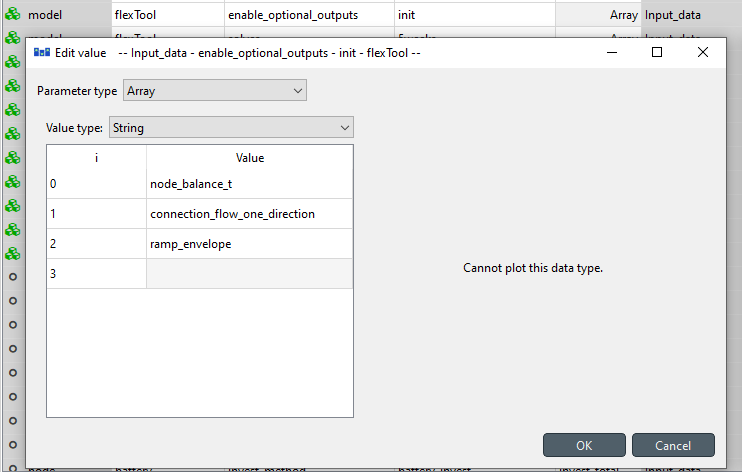
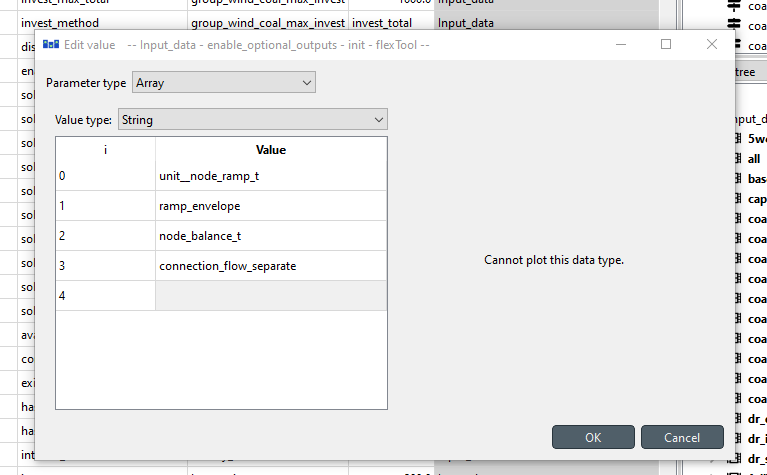
unit__node_ramp_t to enable_outputs without db

diff --git a/docs/reference.md b/docs/reference.md
@@ -44,7 +44,7 @@ Timeblocks pick one or more sections from the `timeline` to form a `timeblockset
   - *solves*: sequence of solves in the model represented with an array of solve names.
   - *discount_offset_investment*: [years] Offset from the period (often year) start to the first payment of the investment cost annuity.
   - *discount_offset_operations*: [years] Offset from the period (often year) start to the payment of operational costs.
-  - *enable_optional_outputs*: [Array], Produces additional outputs. Allowed outputs: "ramp_envelope","node_balance_t","connection_flow_separate" 
+  - *enable_optional_outputs*: [Array], Produces additional outputs. Allowed outputs: "ramp_envelope","unit__node_ramp_t","node_balance_t","connection_flow_separate" 
   - *disable_optional_outputs*: [Array], Disable some of the default outputs to reduce the time used. Allowed outputs to be disabled: "unit__node_flow_t","connection__node__node_flow_t"
   
 - `solve`: each solve is built from an array of periods (e.g. one period for 2025 and another for 2030). Periods use timeblocksets to connect with a timeline.

diff --git a/docs/how_to.md b/docs/how_to.md
@@ -833,6 +833,7 @@ With these parameters, the command line call is:
 Some outputs need to be explicitly added in order to output them. This is to reduce the result processing time. Each optional output can be added to the `enable_optional_outputs` parameter array of the `model` object. The additional outputs are:
 
 - *ramp_envelope* : Includes seven parameters that form the ramp room envelope (how much there is additional ramping capability in a given node). 
+- *unit__node_ramp_t*: Produces the ramp for individual units for all timesteps.
 - *node_balance_t* : Produces detailed inflows and outflows for all the nodes for all timesteps. Mainly useful to diagnose what is wrong with the model. 
 - *connection_flow_separate* : Produces the connection flows separately for both directions.
 
